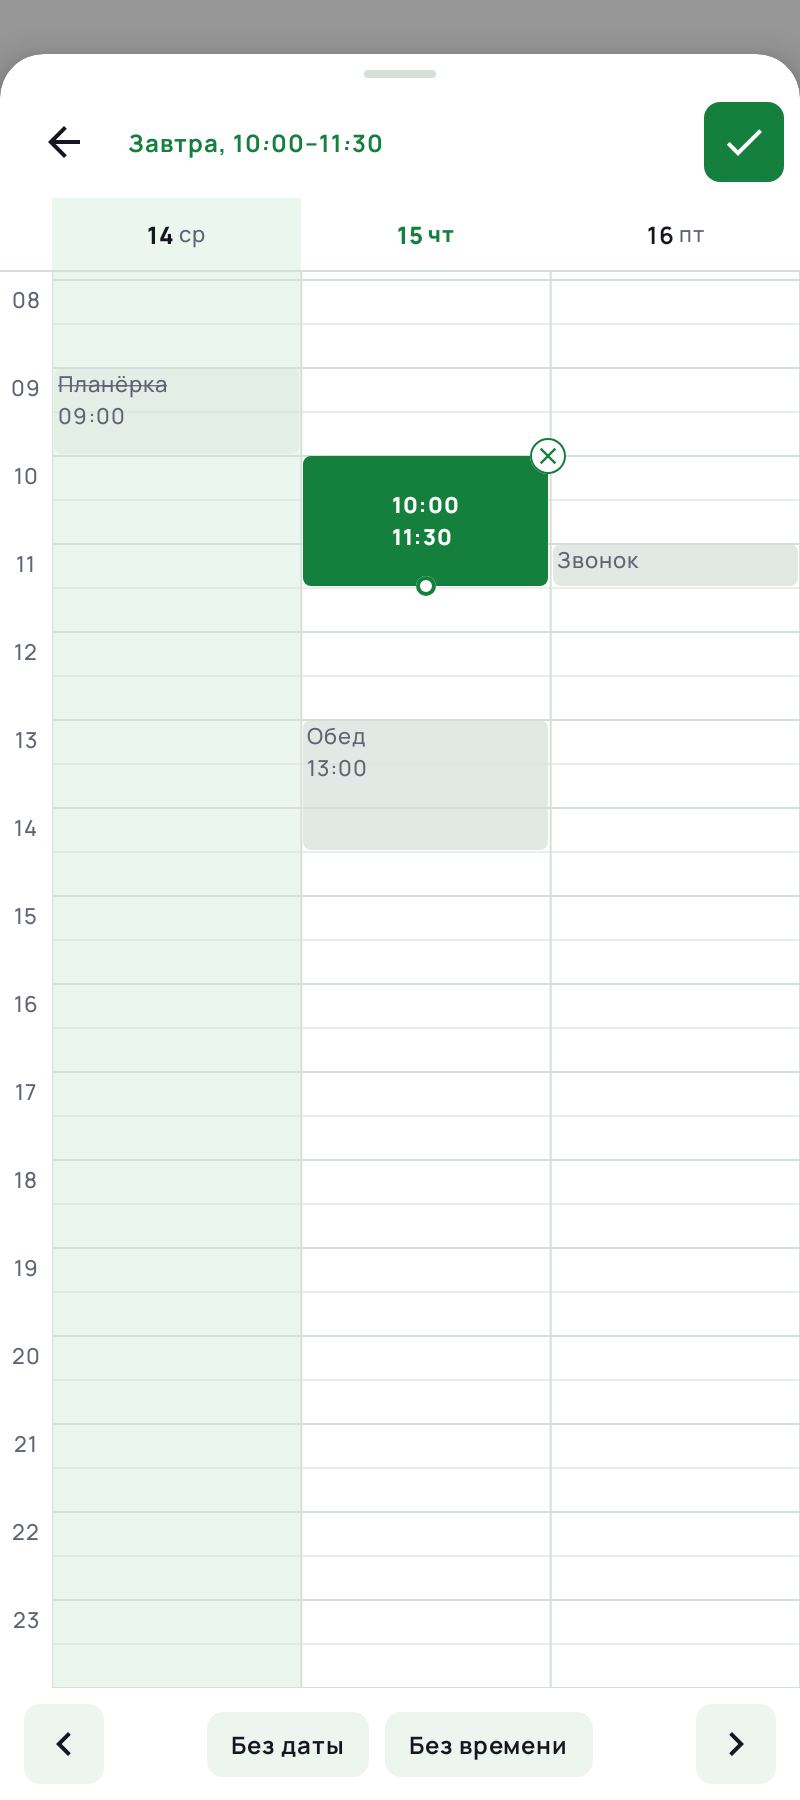
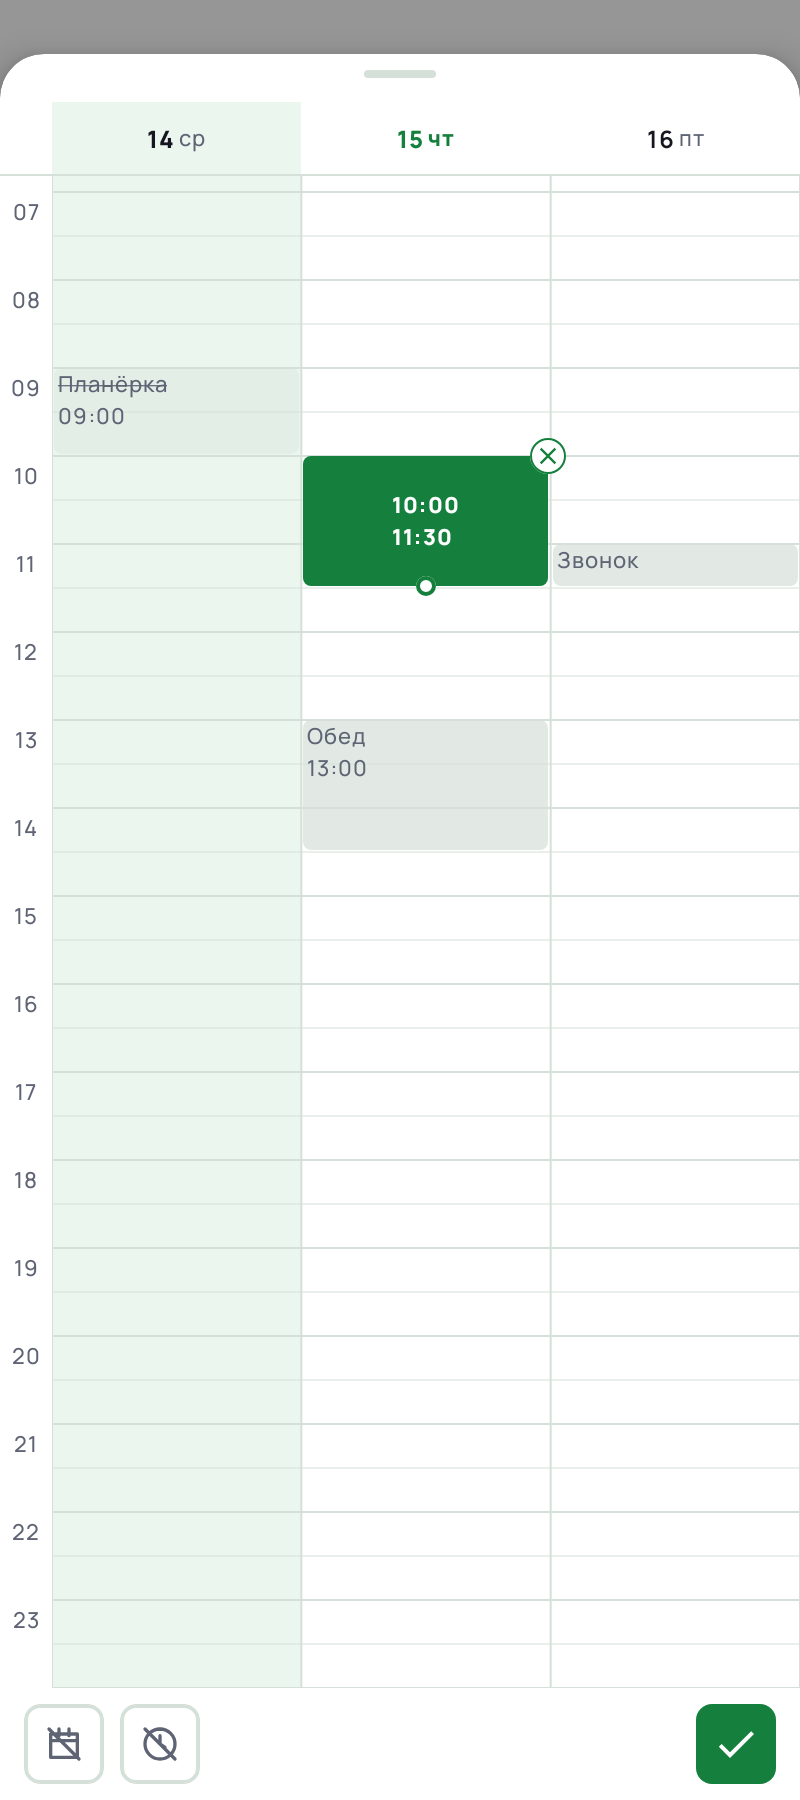
Доработка 0.23.1: таймлайн без лишнего, галочка внизу
- Убраны стрелка «к задаче», строка «когда» сверху и стрелки ‹ ›
- «Без даты» и «Без времени» — иконки, галочка «Готово» внизу справа

Claude-Session: https://claude.ai/code/session_01QAFyQLGgofusGNVqbtBoAp

diff --git a/app/src/main/java/com/prostovasei/simpletasks/ui/feature/task/TaskSheet.kt b/app/src/main/java/com/prostovasei/simpletasks/ui/feature/task/TaskSheet.kt
@@ -5,7 +5,6 @@ import androidx.annotation.DrawableRes
 import androidx.compose.animation.core.Animatable
 import androidx.compose.animation.core.CubicBezierEasing
 import androidx.compose.animation.core.FastOutLinearInEasing
-import androidx.compose.animation.core.animate
 import androidx.compose.animation.core.tween
 import androidx.compose.foundation.background
 import androidx.compose.foundation.border
@@ -39,9 +38,6 @@ import androidx.compose.foundation.text.KeyboardActions
 import androidx.compose.foundation.text.KeyboardOptions
 import androidx.compose.foundation.verticalScroll
 import androidx.compose.material.icons.Icons
-import androidx.compose.material.icons.automirrored.filled.ArrowBack
-import androidx.compose.material.icons.automirrored.filled.KeyboardArrowLeft
-import androidx.compose.material.icons.automirrored.filled.KeyboardArrowRight
 import androidx.compose.material.icons.filled.Check
 import androidx.compose.material3.DatePicker
 import androidx.compose.material3.DatePickerDialog
@@ -49,8 +45,6 @@ import androidx.compose.material3.DropdownMenu
 import androidx.compose.material3.DropdownMenuItem
 import androidx.compose.material3.ExperimentalMaterial3Api
 import androidx.compose.material3.Icon
-import androidx.compose.material3.IconButton
-import androidx.compose.material3.MaterialTheme
 import androidx.compose.material3.Text
 import androidx.compose.material3.TextButton
 import androidx.compose.material3.rememberDatePickerState
@@ -73,7 +67,6 @@ import androidx.compose.ui.draw.shadow
 import androidx.compose.ui.graphics.Color
 import androidx.compose.ui.graphics.SolidColor
 import androidx.compose.ui.graphics.graphicsLayer
-import androidx.compose.ui.graphics.vector.ImageVector
 import androidx.compose.ui.input.pointer.pointerInput
 import androidx.compose.ui.platform.LocalFocusManager
 import androidx.compose.ui.platform.LocalSoftwareKeyboardController
@@ -86,7 +79,6 @@ import androidx.compose.ui.semantics.contentDescription
 import androidx.compose.ui.semantics.selected
 import androidx.compose.ui.semantics.semantics
 import androidx.compose.ui.text.TextStyle
-import androidx.compose.ui.text.font.FontWeight
 import androidx.compose.ui.text.input.ImeAction
 import androidx.compose.ui.text.input.KeyboardCapitalization
 import androidx.compose.ui.window.DialogWindowProvider
@@ -96,7 +88,6 @@ import com.prostovasei.simpletasks.designsystem.theme.AppTheme
 import com.prostovasei.simpletasks.designsystem.theme.parseListColor
 import com.prostovasei.simpletasks.domain.model.Priority
 import com.prostovasei.simpletasks.domain.model.Reminders
-import com.prostovasei.simpletasks.ui.common.DueFormatter
 import com.prostovasei.simpletasks.ui.common.ListIcons
 import com.prostovasei.simpletasks.ui.common.ReminderIcon
 import java.time.Instant
@@ -272,22 +263,9 @@ private fun DateDialog(initial: LocalDate, onPick: (LocalDate) -> Unit, onDismis
     }
 }
 
-/** Строка «когда» зелёным (серым — «Без даты»). */
-@Composable
-private fun WhenLabel(fields: SheetFields, modifier: Modifier) {
-    val colors = AppTheme.colors
-    Text(
-        whenText(fields),
-        style = MaterialTheme.typography.labelMedium,
-        fontWeight = FontWeight.Bold,
-        color = if (fields.due == null) colors.textSecondary else colors.accent,
-        modifier = modifier.testTag(TAG_QUICK_WHEN),
-    )
-}
-
 /**
- * Таймлайн на 3 дня (итерация 21, макет PM N2): сверху «к задаче», выбранное время и «Готово»; сетка с нажатым днём
- * в центре; снизу «Раньше» / «Позже» — на 3 дня и «Без времени» — только день.
+ * Таймлайн на 3 дня (итерация 21, макет PM N2; 0.23.1 — макет «А»): сетка с нажатым днём в центре, листается свайпом;
+ * снизу иконки «Без даты» и «Без времени» (только день) и зелёная галочка «Готово».
  */
 @Composable
 private fun Timeline(
@@ -298,29 +276,9 @@ private fun Timeline(
     onBack: () -> Unit,
     modifier: Modifier,
 ) {
-    val colors = AppTheme.colors
     val spacing = AppTheme.spacing
-    val scope = rememberCoroutineScope()
     val scroll = remember(day) { GridScroll(WeekGridMath.timelineScroll(fields.today, day)) }
-    val page = { days: Int ->
-        scope.launch {
-            val limit = WeekGridMath.MAX_DAYS_AWAY.toFloat()
-            animate(scroll.days, (scroll.days + days).coerceIn(-limit, limit)) { value, _ -> scroll.days = value }
-        }
-        Unit
-    }
-    Column(modifier.fillMaxWidth()) {
-        Row(
-            Modifier.fillMaxWidth().padding(horizontal = spacing.xs, vertical = spacing.xxs),
-            verticalAlignment = Alignment.CenterVertically,
-            horizontalArrangement = Arrangement.spacedBy(spacing.xs),
-        ) {
-            IconButton(onClick = onBack, modifier = Modifier.testTag(TAG_TIMELINE_BACK)) {
-                Icon(Icons.AutoMirrored.Filled.ArrowBack, stringResource(R.string.timeline_back), tint = colors.textPrimary)
-            }
-            WhenLabel(fields, Modifier.weight(1f))
-            SheetConfirmButton(R.string.sheet_done, enabled = true, tag = TAG_TIMELINE_DONE, onClick = onBack)
-        }
+    Column(modifier.fillMaxWidth().padding(top = spacing.xs)) {
         WeekGrid(
             scroll = scroll,
             today = fields.today,
@@ -344,13 +302,11 @@ private fun Timeline(
             verticalAlignment = Alignment.CenterVertically,
             horizontalArrangement = Arrangement.spacedBy(spacing.xs),
         ) {
-            ArrowButton(Icons.AutoMirrored.Filled.KeyboardArrowLeft, R.string.timeline_earlier, TAG_TIMELINE_EARLIER) { page(-WeekGridMath.TIMELINE_DAYS) }
-            Spacer(Modifier.weight(1f))
-            TimelineButton(R.string.quick_when_none, TAG_TIMELINE_NO_DATE) {
+            ToolButton(R.string.quick_when_none, active = false, tag = TAG_TIMELINE_NO_DATE, icon = R.drawable.ic_no_date) {
                 onGrid(GridAction.ClearDate)
                 onBack()
             }
-            TimelineButton(R.string.strip_no_time, TAG_TIMELINE_NO_TIME) {
+            ToolButton(R.string.strip_no_time, active = false, tag = TAG_TIMELINE_NO_TIME, icon = R.drawable.ic_no_time) {
                 // Только день — тот, по которому открыт таймлайн; если он уже выбран — просто убрать время.
                 when {
                     fields.selectedDate != day -> onGrid(GridAction.DayTap(day))
@@ -359,52 +315,9 @@ private fun Timeline(
                 onBack()
             }
             Spacer(Modifier.weight(1f))
-            ArrowButton(Icons.AutoMirrored.Filled.KeyboardArrowRight, R.string.timeline_later, TAG_TIMELINE_LATER) { page(WeekGridMath.TIMELINE_DAYS) }
+            SheetConfirmButton(R.string.sheet_done, enabled = true, tag = TAG_TIMELINE_DONE, onClick = onBack)
         }
     }
-}
-
-@Composable
-private fun ArrowButton(icon: ImageVector, label: Int, tag: String, onClick: () -> Unit) {
-    val colors = AppTheme.colors
-    val description = stringResource(label)
-    Box(
-        Modifier
-            .size(AppTheme.sizes.toolButton)
-            .clip(AppTheme.shapes.medium)
-            .background(colors.background)
-            .clickable(role = Role.Button, onClick = onClick)
-            .semantics { contentDescription = description }
-            .testTag(tag),
-        contentAlignment = Alignment.Center,
-    ) {
-        Icon(icon, null, tint = colors.textPrimary)
-    }
-}
-
-@Composable
-private fun TimelineButton(label: Int, tag: String, onClick: () -> Unit) {
-    val colors = AppTheme.colors
-    Text(
-        stringResource(label),
-        style = MaterialTheme.typography.labelMedium,
-        fontWeight = FontWeight.Bold,
-        color = colors.textPrimary,
-        modifier = Modifier
-            .clip(AppTheme.shapes.medium)
-            .background(colors.background)
-            .clickable(role = Role.Button, onClick = onClick)
-            .padding(horizontal = AppTheme.spacing.sm, vertical = AppTheme.spacing.xs)
-            .testTag(tag),
-    )
-}
-
-/** Строка «когда»: «Без даты», «Сегодня, весь день», «Завтра, 16:00» или «Завтра, 16:00–17:30». */
-@Composable
-private fun whenText(fields: SheetFields): String {
-    val text = DueFormatter.format(fields.due, fields.start, fields.today, fields.zone) ?: return stringResource(R.string.quick_when_none)
-    val time = text.time ?: return stringResource(R.string.quick_when_all_day, dayLabelText(text.day))
-    return stringResource(R.string.quick_when_time, dayLabelText(text.day), time)
 }
 
 /** Нижняя панель шторки: квадратные кнопки свойств слева, [actions] справа. */
@@ -613,17 +526,13 @@ private const val DIMMED_ALPHA = 0.45f
 
 const val TAG_QUICK_CARD = "quick_card"
 const val TAG_QUICK_SCRIM = "quick_scrim"
-const val TAG_QUICK_WHEN = "quick_when"
 const val TAG_TOOL_LIST = "tool_list"
 const val TAG_TOOL_REPEAT = "tool_repeat"
 const val TAG_TOOL_REMINDER = "tool_reminder"
 const val TAG_TOOL_PRIORITY = "tool_priority"
 const val TAG_TOOL_CHECKLIST = "tool_checklist"
 const val TAG_REMINDER_NEED_DAY = "reminder_need_day"
-const val TAG_TIMELINE_BACK = "timeline_back"
 const val TAG_TIMELINE_DONE = "timeline_done"
-const val TAG_TIMELINE_EARLIER = "timeline_earlier"
-const val TAG_TIMELINE_LATER = "timeline_later"
 const val TAG_TIMELINE_NO_TIME = "timeline_no_time"
 const val TAG_TIMELINE_NO_DATE = "timeline_no_date"
 const val TAG_DATE_DIALOG_OK = "date_dialog_ok"

diff --git a/app/src/test/java/com/prostovasei/simpletasks/ui/feature/task/TaskScreensUiTest.kt b/app/src/test/java/com/prostovasei/simpletasks/ui/feature/task/TaskScreensUiTest.kt
@@ -123,7 +123,6 @@ class TaskScreensUiTest {
 
         // Нажали на «послезавтра» — таймлайн на 3 дня: завтра, послезавтра (в центре), день после.
         composeRule.onNodeWithTag("$TAG_DAY_TILE:${today.plusDays(2)}").performClick()
-        composeRule.onNodeWithTag(TAG_QUICK_WHEN).assertTextEquals("Сегодня, весь день")
         composeRule.onNodeWithTag(TAG_WEEK_GRID).assertExists()
         composeRule.onNodeWithTag(TAG_TOOL_REPEAT).assertDoesNotExist()
         composeRule.onNodeWithTag("$TAG_GRID_DAY:${today.plusDays(2)}").performClick()
@@ -138,8 +137,8 @@ class TaskScreensUiTest {
             intents.filterNot { it is QuickAddIntent.Grid && it.action is GridAction.FirstDay },
         )
 
-        // «Назад к задаче» — снова строка недели, занятость — с сегодняшнего дня.
-        composeRule.onNodeWithTag(TAG_TIMELINE_BACK).performClick()
+        // Галочка — снова шторка, занятость — с сегодняшнего дня.
+        composeRule.onNodeWithTag(TAG_TIMELINE_DONE).performClick()
         composeRule.onNodeWithTag(TAG_WEEK_GRID).assertDoesNotExist()
         composeRule.onNodeWithTag(TAG_TOOL_REPEAT).assertExists()
         assertEquals(QuickAddIntent.Grid(GridAction.FirstDay(today)), intents.last())
@@ -175,11 +174,9 @@ class TaskScreensUiTest {
     fun timelineButtons() {
         show { QuickAddScreen(quickState, { intents += it }, {}, autoFocus = false) }
         composeRule.onNodeWithTag("$TAG_DAY_TILE:${today.plusDays(1)}").performClick()
-        // Крестик на блоке — убрать время; «Позже» — следующие 3 дня.
+        // Крестик на блоке — убрать время; стрелок и подписи сверху нет.
         composeRule.onNodeWithTag(TAG_GRID_CLEAR, useUnmergedTree = true).performClick()
-        composeRule.onNodeWithTag(TAG_TIMELINE_LATER).performClick()
-        composeRule.waitForIdle()
-        composeRule.onNodeWithTag("$TAG_GRID_DAY:${today.plusDays(3)}").assertExists()
+        composeRule.onNodeWithTag(TAG_TIMELINE_NO_DATE).assertExists()
         // «Без времени» — оставить только день и вернуться к задаче.
         composeRule.onNodeWithTag(TAG_TIMELINE_NO_TIME).performClick()
         composeRule.onNodeWithTag(TAG_WEEK_GRID).assertDoesNotExist()
@@ -194,7 +191,6 @@ class TaskScreensUiTest {
         show { QuickAddScreen(quickState.copy(start = TaskDue.AtTime(Instant.parse("2026-10-15T10:00:00Z")), due = TaskDue.AtTime(Instant.parse("2026-10-15T11:30:00Z"))), { intents += it }, {}, autoFocus = false) }
         // Таймлайн с завтрашним днём в центре: сегодня, завтра, послезавтра (колонка ≈ 125 dp).
         composeRule.onNodeWithTag("$TAG_DAY_TILE:${today.plusDays(1)}").performClick()
-        composeRule.onNodeWithTag(TAG_QUICK_WHEN).assertTextEquals("Завтра, 10:00–11:30")
         composeRule.onNodeWithText("10:00\n11:30", useUnmergedTree = true).assertExists()
 
         // Ручка: вниз на час (44dp) — +60 минут.
